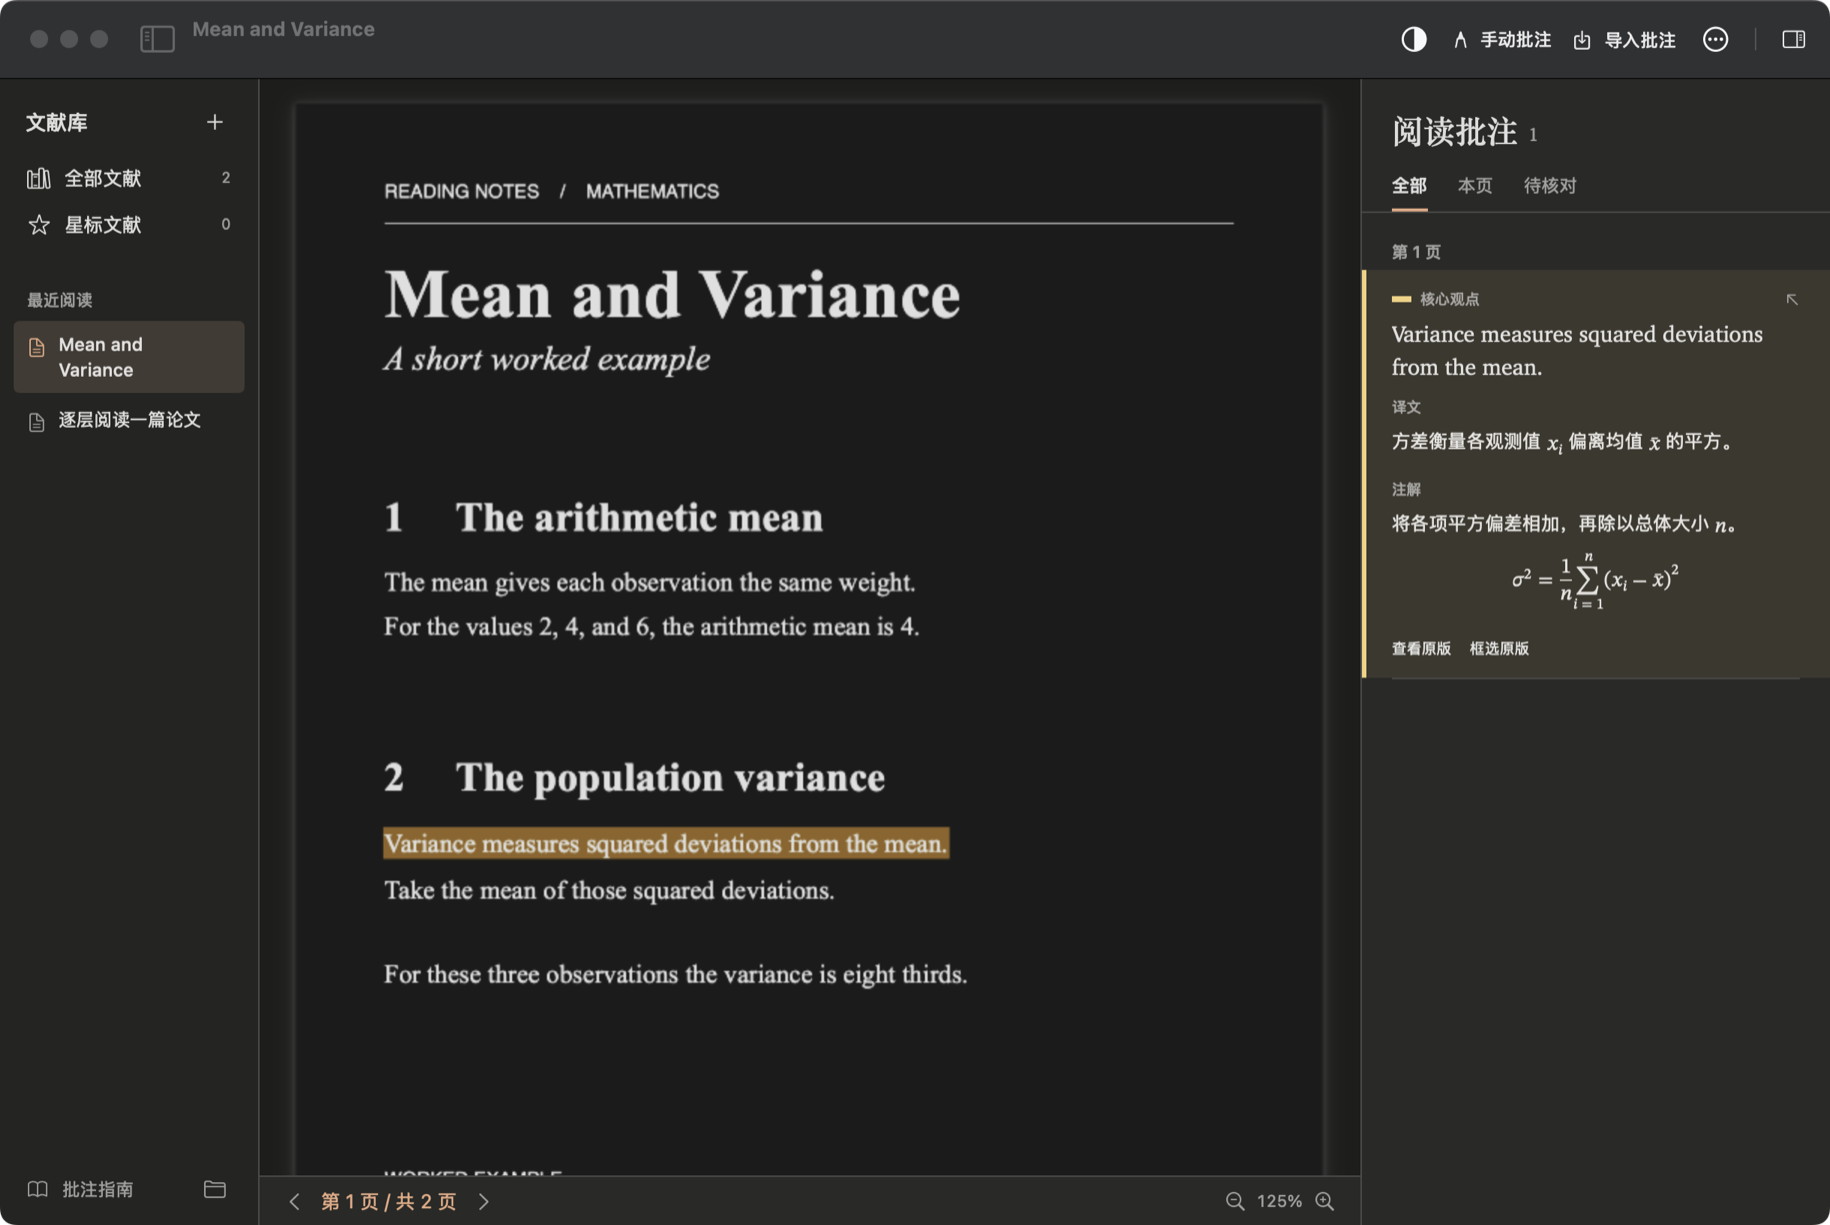
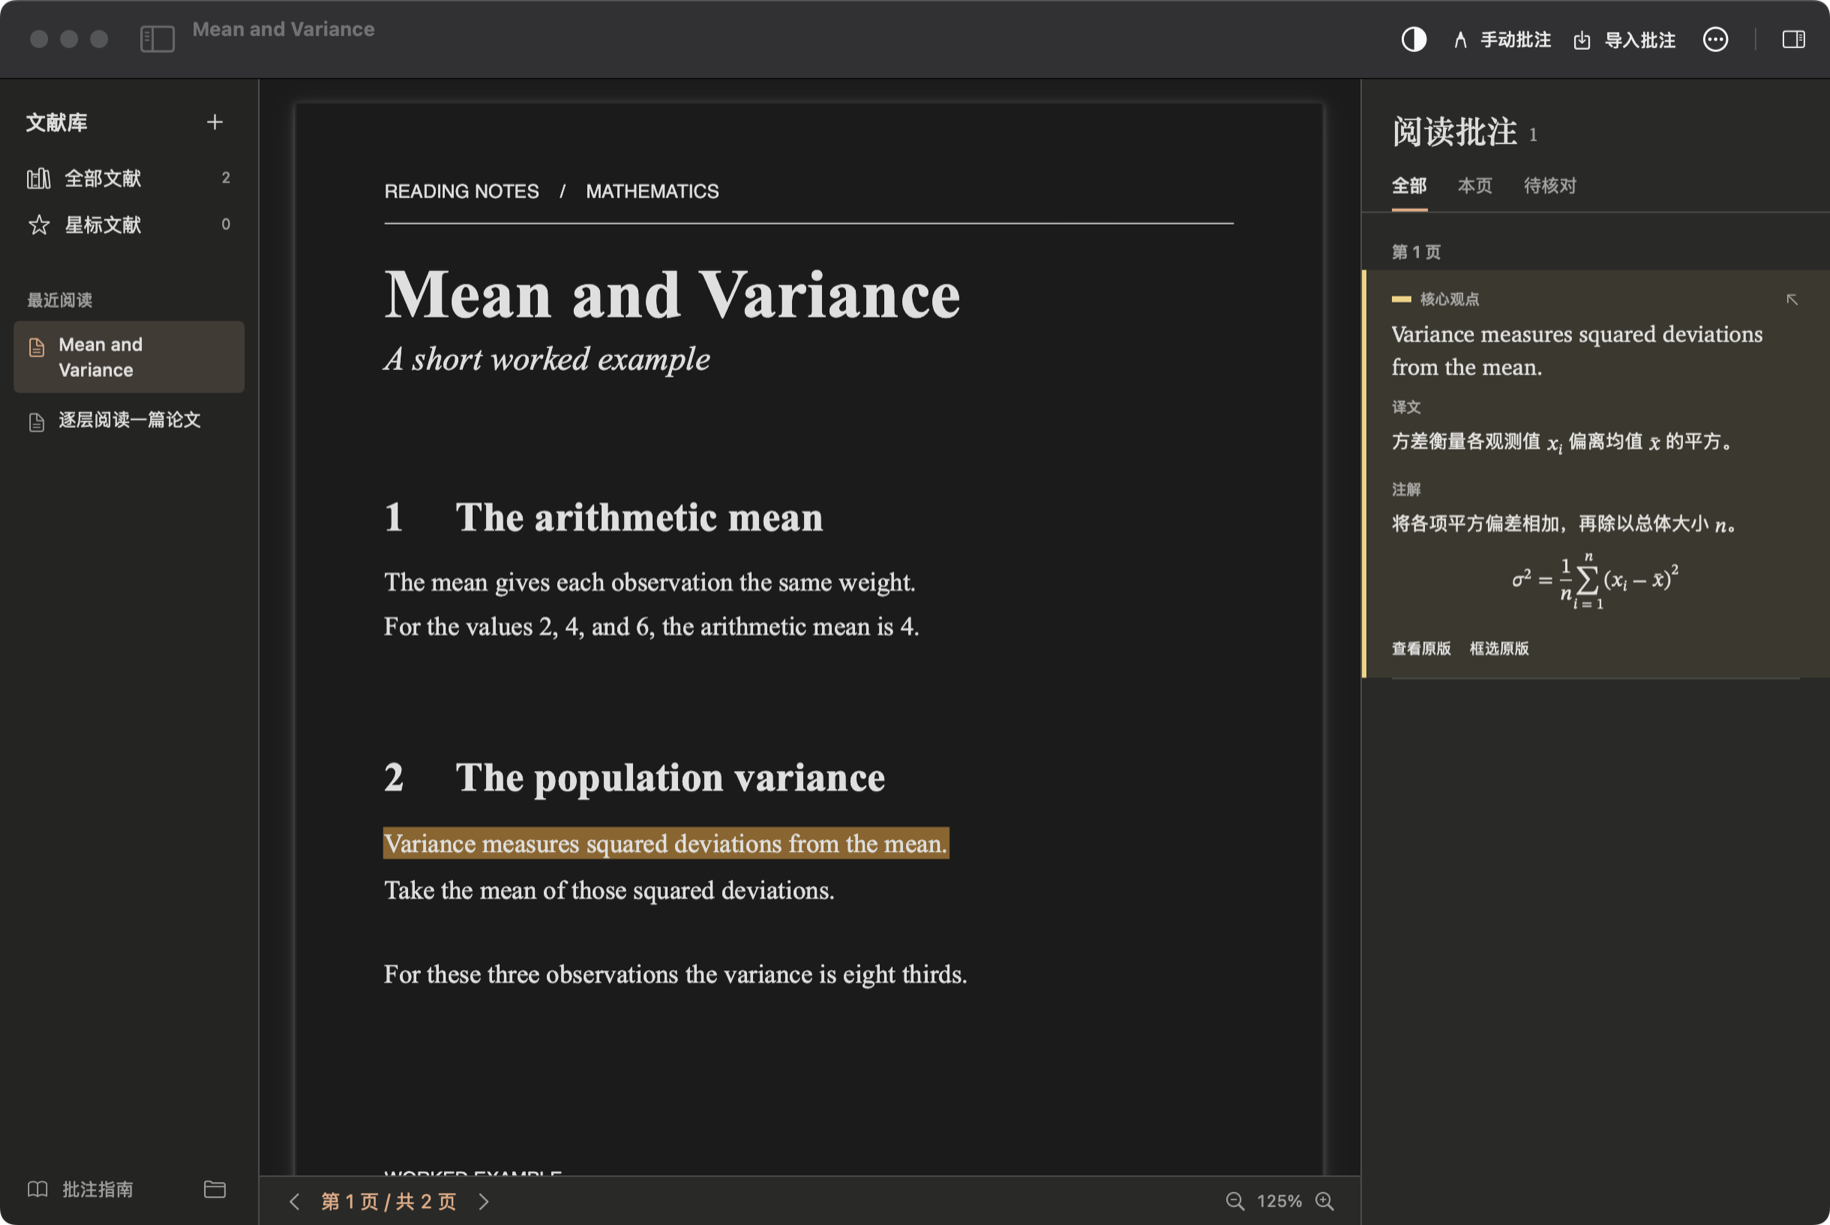
修复夜间阅读时 PDF 放大后变模糊的问题

diff --git a/Sources/PDFReader.swift b/Sources/PDFReader.swift
@@ -5,11 +5,9 @@ final class FolioPDFView: PDFView {
     var picked: ((String) -> Void)?
     private var clickMonitor: Any?
     private var clickStart: (id: String, point: CGPoint)?
-    private weak var filteredDocument: NSView?
     private var appliedNight: Bool?
     func applyPageAppearance(night: Bool) {
-        guard let surface = documentView, surface !== filteredDocument || appliedNight != night else { return }
-        filteredDocument = surface
+        guard appliedNight != night else { return }
         appliedNight = night
         if night, let filter = CIFilter(name: "CIColorMatrix") {
             // Reverse the brightness of the page while retaining the hue of ink and highlights.
@@ -18,20 +16,26 @@ final class FolioPDFView: PDFView {
             filter.setValue(CIVector(x: other, y: diagonal, z: other, w: 0), forKey: "inputGVector")
             filter.setValue(CIVector(x: other, y: other, z: diagonal, w: 0), forKey: "inputBVector")
             filter.setValue(CIVector(x: 0.88, y: 0.88, z: 0.88, w: 0), forKey: "inputBiasVector")
-            surface.wantsLayer = true
-            surface.layer?.rasterizationScale = window?.backingScaleFactor ?? 2
+            // Apply color conversion to the fixed viewport, after PDFKit has drawn
+            // its tiles at the current zoom. A filter on documentView scales a cached image.
+            wantsLayer = true
+            layer?.rasterizationScale = window?.backingScaleFactor ?? 2
+            backgroundColor = .white
             if let tone = CIFilter(name: "CIColorPolynomial") {
                 let curve = CIVector(x: 0.009, y: 0.02, z: 0.21, w: 0.80)
                 for channel in ["inputRedCoefficients", "inputGreenCoefficients", "inputBlueCoefficients"] {
                     tone.setValue(curve, forKey: channel)
                 }
-                surface.contentFilters = [filter, tone]
-            } else { surface.contentFilters = [filter] }
-        } else { surface.contentFilters = [] }
+                contentFilters = [filter, tone]
+            } else { contentFilters = [filter] }
+        } else {
+            contentFilters = []
+            backgroundColor = C.canvas
+        }
     }
     override func viewDidChangeBackingProperties() {
         super.viewDidChangeBackingProperties()
-        if appliedNight == true { filteredDocument?.layer?.rasterizationScale = window?.backingScaleFactor ?? 2 }
+        if appliedNight == true { layer?.rasterizationScale = window?.backingScaleFactor ?? 2 }
     }
     var pickingRegion = false
     var fitWidth = true
